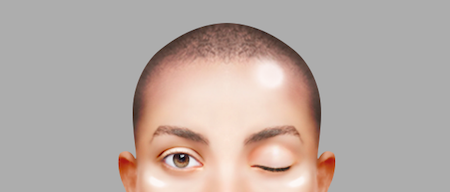
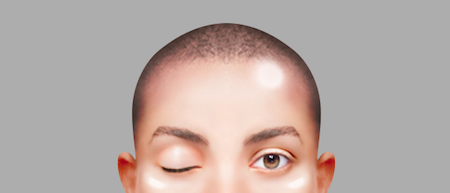
fix wink

diff --git a/src/client/sys/Faces.java b/src/client/sys/Faces.java
@@ -17,16 +17,16 @@ public class Faces {
 	 * Default upperFace image
 	 * @return ImageIcon.
 	 */
-	public static ImageIcon defaultUpperFace() {
-		return new ImageIcon("img/upperFace_normal.png");
+	public static ImageIcon defaultUpperFace(ClassLoader loader) {
+		return new ImageIcon(loader.getResource("upperFace_normal.png"));
 	}
 	
 	/**
 	 * Default lowerFace image
 	 * @return ImageIcon.
 	 */
-	public static ImageIcon defaultLoweFace() {
-		return new ImageIcon("img/lowerFace_normal.png");
+	public static ImageIcon defaultLoweFace(ClassLoader loader) {
+		return new ImageIcon(loader.getResource("lowerFace_normal.png"));
 	}
 	
 	/**
@@ -40,25 +40,25 @@ public class Faces {
 	 * @param raise.
 	 * @return ImageIcon.
 	 */
-	public static ImageIcon upperFace(double blink, double rightWink, double leftWink, 
+	public static ImageIcon upperFace(ClassLoader loader, double blink, double rightWink, double leftWink, 
 			double lookLeft, double lookRight, double furrow, double raise) {
 		
 		if(blink==1) {
-			return new ImageIcon("img/blink.png");
+			return new ImageIcon(loader.getResource("blink.png"));
 		}else if(rightWink==1) {
-			return new ImageIcon("img/wink_right.png");
+			return new ImageIcon(loader.getResource("wink_right.png"));
 		}else if(leftWink==1) {
-			return new ImageIcon("img/wing_left.png");
+			return new ImageIcon(loader.getResource("wink_left.png"));
 		}else if(lookLeft==1) {
-			return new ImageIcon("img/look_left.png");
+			return new ImageIcon(loader.getResource("look_left.png"));
 		}else if(lookRight==1) {
-			return new ImageIcon("img/look_right.png");
+			return new ImageIcon(loader.getResource("look_right.png"));
 		}else if(furrow > .5) {
-			return new ImageIcon("img/furrow.png");
+			return new ImageIcon(loader.getResource("furrow.png"));
 		}else if(raise > .5) {
-			return new ImageIcon("img/raise.png");
+			return new ImageIcon(loader.getResource("raise.png"));
 		}
-		return defaultUpperFace();
+		return defaultUpperFace(loader);
 	}
 	
 	/**
@@ -71,20 +71,20 @@ public class Faces {
 	 * @return ImageIcon
 	 * 
 	 */
-	public static ImageIcon lowerFace(double smile, double clench, double leftSmirk, 
+	public static ImageIcon lowerFace(ClassLoader loader, double smile, double clench, double leftSmirk, 
 			double rightSmirk, double laugh) {
 		if(smile > .5) {
-			return new ImageIcon("img/smile.png");
+			return new ImageIcon(loader.getResource("smile.png"));
 		}else if(clench > .5) {
-			return new ImageIcon("img/clench.png");
+			return new ImageIcon(loader.getResource("clench.png"));
 		}else if(leftSmirk > .5) {
-			return new ImageIcon("img/smirk_left.png");
+			return new ImageIcon(loader.getResource("smirk_left.png"));
 		}else if(rightSmirk > .5) {
-			return new ImageIcon("img/smirk_right.png");
+			return new ImageIcon(loader.getResource("smirk_right.png"));
 		}else if(laugh > .5) {
-			return new ImageIcon("img/laugh.png");
+			return new ImageIcon(loader.getResource("laugh.png"));
 		}
-		return defaultLoweFace();
+		return defaultLoweFace(loader);
 	}
 
 

diff --git a/src/client/gui/FacePanel.java b/src/client/gui/FacePanel.java
@@ -1,4 +1,5 @@
 package client.gui;
+
 import java.awt.Color;
 
 import javax.swing.ImageIcon;
@@ -22,12 +23,10 @@ import data.EmotivData;
 public class FacePanel extends JPanel {
 
   private static final long serialVersionUID = -5762535688754954249L;
+  private ClassLoader loader = getClass().getClassLoader();
   private JLabel JLabelUpperFace;
   private JLabel JLabelLowerFace;
 
-  /*
-   * Constructor for the class
-   */
   public FacePanel() {
     setBounds(0, 0, 450, 300);
     setBackground(Color.white);
@@ -60,19 +59,22 @@ public class FacePanel extends JPanel {
    *
    */
   private void setDefaultImage() {
-    JLabelUpperFace.setIcon(Faces.defaultUpperFace());
-    JLabelLowerFace.setIcon(Faces.defaultLoweFace());
+    JLabelUpperFace.setIcon(Faces.defaultUpperFace(loader));
+    JLabelLowerFace.setIcon(Faces.defaultLoweFace(loader));
   }
 
-  /*
-   * Method to update the face images
+  /**
+   * This method is used to update the facial expressions 
+   * 
+   * @param emotiveData data received from the server
+   *
    */
   public void updateFace(EmotivData emotiveData) {
 
-    ImageIcon upperFaceImage = Faces.upperFace(emotiveData.getBlink(), emotiveData.getRightWink(),
+    ImageIcon upperFaceImage = Faces.upperFace(loader, emotiveData.getBlink(), emotiveData.getRightWink(),
         emotiveData.getLeftWink(), emotiveData.getLookingLeft(), emotiveData.getLookingRight(),
         emotiveData.getEyebrowFurrow(), emotiveData.getEyebrowRaise());
-    ImageIcon lowerFaceImage = Faces.lowerFace(emotiveData.getSmile(), emotiveData.getClench(),
+    ImageIcon lowerFaceImage = Faces.lowerFace(loader, emotiveData.getSmile(), emotiveData.getClench(),
         emotiveData.getSmirkLeft(), emotiveData.getSmirkRight(), emotiveData.getLaugh());
 
     JLabelUpperFace.setIcon(upperFaceImage);
